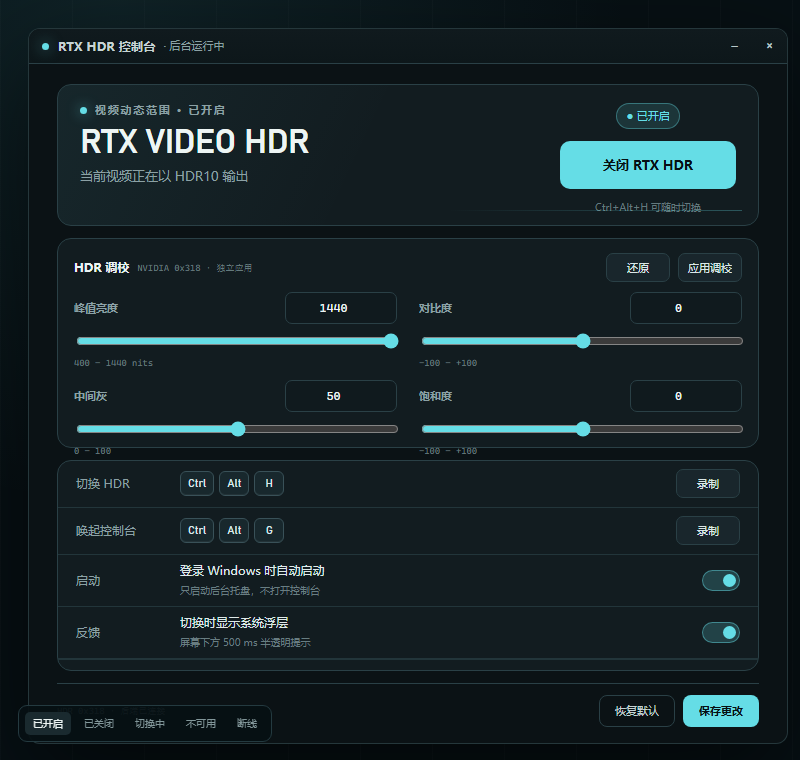
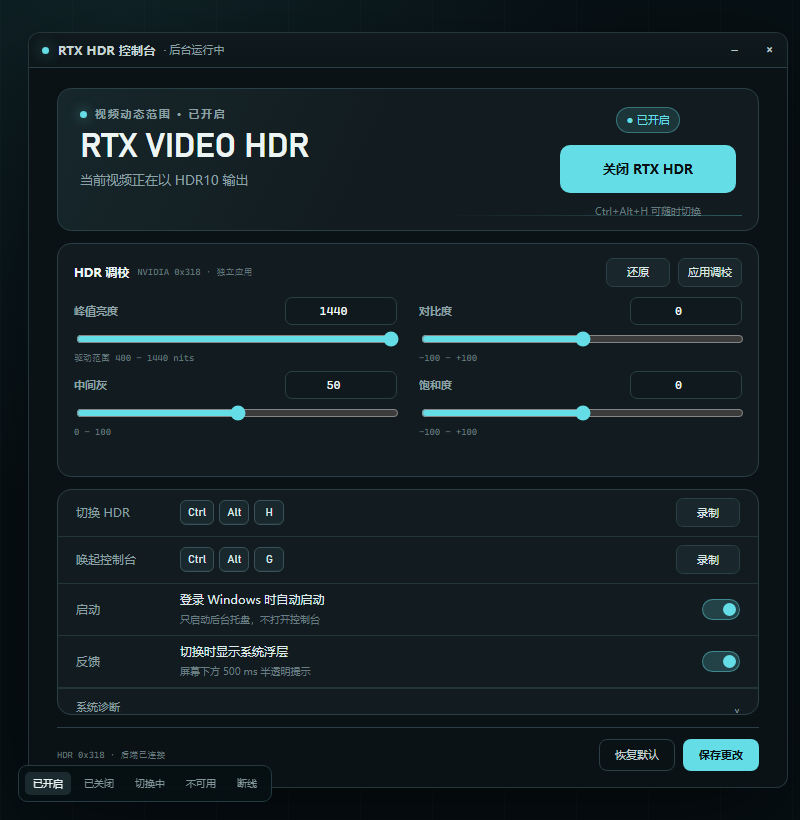
Clarify driver-derived peak range

diff --git a/prototype/gpui-console.html b/prototype/gpui-console.html
@@ -655,7 +655,7 @@
             <label for="peakInput">峰值亮度</label>
             <input class="tune-input" id="peakInput" type="number" min="400" max="1440" value="1440">
             <input id="peakSlider" type="range" min="400" max="1440" value="1440">
-            <span class="tune-range">400 – 1440 nits</span>
+            <span class="tune-range" id="peakRange">驱动范围 400 – 1440 nits</span>
           </div>
           <div class="tune-control">
             <label for="contrastInput">对比度</label>
@@ -747,6 +747,8 @@
       hotkey: ["Ctrl", "Alt", "H"],
       consoleHotkey: ["Ctrl", "Alt", "G"],
       tuning: { peak: 1440, middleGray: 50, contrast: 0, saturation: 0 },
+      displayPeakMin: 400,
+      displayPeakMax: 1440,
       tuningDirty: false,
     };
 
@@ -792,6 +794,7 @@
       $("actionHint").textContent = state.recording ? "按下包含修饰键的组合，Esc 取消" : `${state.hotkey.join("+")} 可随时切换`;
       $("peakInput").value = state.tuning.peak;
       $("peakSlider").value = state.tuning.peak;
+      $("peakRange").textContent = `驱动范围 ${state.displayPeakMin} – ${state.displayPeakMax} nits`;
       $("middleGrayInput").value = state.tuning.middleGray;
       $("middleGraySlider").value = state.tuning.middleGray;
       $("contrastInput").value = state.tuning.contrast;

diff --git a/crates/ui/src/main.rs b/crates/ui/src/main.rs
@@ -1000,7 +1000,7 @@ impl ConsoleApp {
     fn render_tuning(&self, cx: &mut Context<Self>) -> impl IntoElement {
         let hdr = self.hdr_ready();
         let peak_range = hdr.map_or("—".into(), |hdr| {
-            format!("{} – {} nits", hdr.peak_min, hdr.peak_max)
+            format!("驱动范围 {} – {} nits", hdr.peak_min, hdr.peak_max)
         });
         let disabled = !self.hdr_dirty || !self.can_tune() || self.tuning_saving;
 
